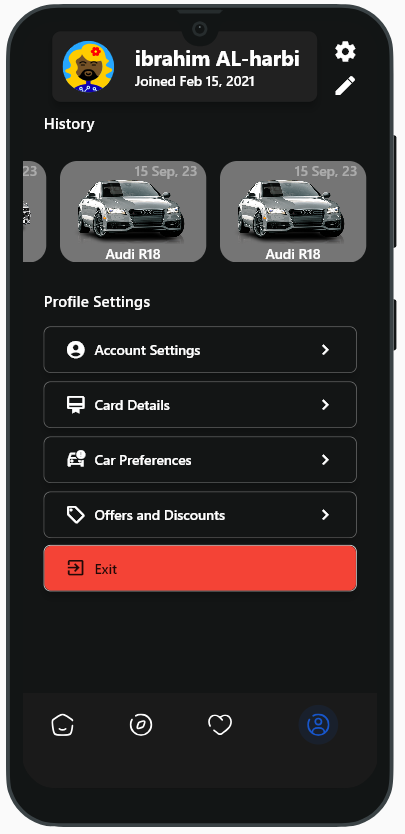
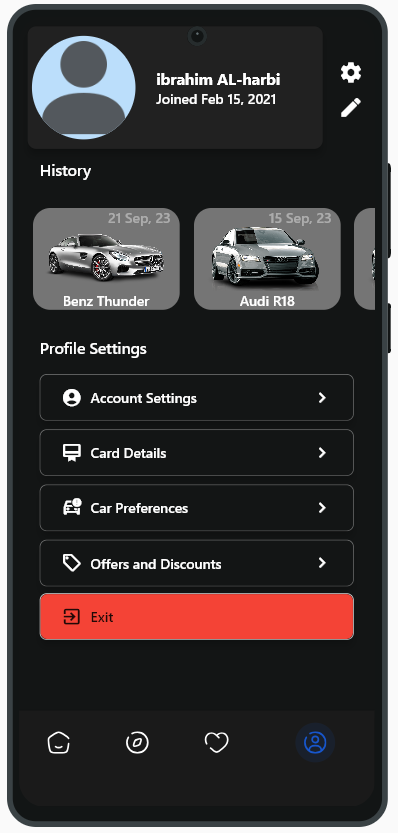
fix bug

diff --git a/lib/apps/car_booking/ui/screens/home/profile/profile_page.dart b/lib/apps/car_booking/ui/screens/home/profile/profile_page.dart
@@ -14,7 +14,7 @@ class ProfilePageView extends StatelessWidget {
       child: Column(
         children: [
           Container(
-            margin: const EdgeInsets.only(top: 12, bottom: 12, left: 34, right: 20),
+            margin: const EdgeInsets.only(top: 12, bottom: 12, left: 10, right: 10),
             child: Row(
               children: [
                 Expanded(
@@ -23,16 +23,17 @@ class ProfilePageView extends StatelessWidget {
                     color: Colors.grey.shade900,
                     elevation: 7,
                     child: Container(
-                      padding: const EdgeInsets.symmetric(vertical: 11, horizontal: 12),
+                      padding: const EdgeInsets.symmetric(vertical: 11, horizontal: 5),
                       decoration: const BoxDecoration(
                         borderRadius: BorderRadius.all(Radius.circular(10)),
                       ),
                       child: Row(
                         children: [
-                          RandomAvatar(
-                            DateTime.now().toIso8601String(),
-                            height: 60,
-                            width: 60,
+                          Container(
+                            child: CircleAvatar(
+                              radius: 60,
+                              backgroundImage: AssetImage('assest/images/avatars/avatar1.png'),
+                            ),
                           ),
                           const Gap(24),
                           Expanded(
@@ -43,7 +44,7 @@ class ProfilePageView extends StatelessWidget {
                                     Expanded(
                                       child: Text(
                                         "ibrahim AL-harbi",
-                                        style: Theme.of(context).textTheme.displayLarge!.copyWith(color: Colors.white),
+                                        style: Theme.of(context).textTheme.displayLarge!.copyWith(color: Colors.white, fontSize: 18),
                                       ),
                                     ),
                                   ],
